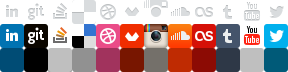
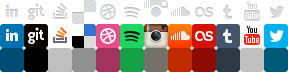
Update links

Changed region(s): [[0.4062, 0.3333, 0.5, 1.0], [0.4062, 0.0833, 0.5, 0.25]]

diff --git a/css/style.min.css b/css/style.min.css
@@ -1,1 +1,1 @@
-abbr,address,article,aside,audio,b,blockquote,body,caption,cite,code,dd,del,dfn,div,dl,dt,em,fieldset,figure,footer,form,h1,h2,h3,h4,h5,h6,header,hgroup,html,i,iframe,img,ins,kbd,label,legend,li,mark,menu,nav,object,ol,p,pre,q,samp,section,small,span,strong,sub,sup,table,tbody,td,tfoot,th,thead,time,tr,ul,var,video{margin:0;border:0;outline:0;padding:0;font-size:100%;vertical-align:baseline;background:0 0}article,aside,figure,footer,header,hgroup,nav,section{display:block}nav ul{list-style:none}blockquote,q{quotes:none}blockquote:after,blockquote:before,q:after,q:before{content:'';content:none}a{margin:0;padding:0;font-size:100%;vertical-align:baseline;background:0 0}ins{background-color:#ff9;color:#000;text-decoration:none}mark{background-color:#ff9;color:#000;font-style:italic;font-weight:700}del{text-decoration:line-through}abbr[title],dfn[title]{border-bottom:1px dotted #000;cursor:help}table{border-collapse:collapse;border-spacing:0}hr{display:block;height:1px;border:0;border-top:1px solid #ccc;margin:1em 0;padding:0}input,select{vertical-align:middle}body{font:13px sans-serif;line-height:1.22}table{font:100%}input,select,textarea{font:99% sans-serif}code,kbd,pre,samp{font-family:monospace,sans-serif}body,input,select,textarea{color:#444}h1,h2,h3,h4,h5,h6{font-weight:700;text-rendering:optimizeLegibility}html{-webkit-font-smoothing:antialiased}a:active,a:hover{outline:0}a,a:active,a:visited{color:#607890}a:hover{color:#036}ul{margin-left:30px}ol{margin-left:30px;list-style-type:decimal}small{font-size:85%}strong,th{font-weight:700}td,td img{vertical-align:top}sub{vertical-align:sub;font-size:smaller}sup{vertical-align:super;font-size:smaller}pre{padding:15px;white-space:pre;white-space:pre-wrap;white-space:pre-line;word-wrap:break-word}input[type=radio]{vertical-align:text-bottom}input[type=checkbox]{vertical-align:bottom}.ie6 input{vertical-align:text-bottom}button,input[type=button],input[type=submit],label{cursor:pointer}::-moz-selection{background:#f90;color:#fff;text-shadow:none}::selection{background:#f90;color:#fff;text-shadow:none}a:link{-webkit-tap-highlight-color:#f90}button{width:auto;overflow:visible}.ie7 img{-ms-interpolation-mode:bicubic}.ir{display:block;direction:ltr;text-indent:-999em;overflow:hidden;background-repeat:no-repeat}.hidden{display:none;visibility:hidden}.visuallyhidden{position:absolute!important;clip:rect(1px 1px 1px 1px);clip:rect(1px,1px,1px,1px)}.invisible{visibility:hidden}.clearfix:after{content:".";display:block;height:0;clear:both;visibility:hidden}* html .clearfix{height:1%}.clearfix{display:block}body,html{width:100%;height:100%}html{background:#edf1f2 url(../img/bg.png)}body{position:relative;min-width:320px;min-height:540px;text-align:center;font-family:'Yanone Kaffeesatz',arial,sans-serif;background:url(../img/shimmer-bg.png) top center no-repeat;color:#7d7f80}header{display:none}.middlr{position:absolute;width:100%;height:0;overflow:visible}.middlr.main{top:50%}.middlr.secondary{top:75%}.soon{position:absolute;top:-67px;width:100%;height:134px;font-weight:700;line-height:1.2;vertical-align:middle;color:#fff}.soon p{position:relative;top:0;width:245px;height:100px;margin:0 auto;font-size:128px;line-height:100px;text-transform:uppercase;text-shadow:#bbbebf 0 5px 0,rgba(0,0,0,.25) 0 5px 5px;-webkit-transition:all 100ms ease-in-out;transition:all 100ms ease-in-out}.soon p:hover{position:relative;top:3px;text-shadow:#bbbebf 0 2px 0,rgba(0,0,0,.25) 0 2px 2px}.soon small{top:0;margin-top:5px;display:block;font-size:24px;text-shadow:#a5a7a8 0 1px 0,#a5a7a8 0 2px 0,rgba(0,0,0,.25) 0 2px 5px}.ie7 .soon p,.ie7 .soon small,.ie8 .soon p,.ie8 .soon small{color:#7d7f80}.ie7 .soon p:hover,.ie8 .soon p:hover{top:0}.content aside{position:absolute;top:-50px;width:100%;height:100px}.content aside p{font-size:22px}.socialist{width:204px;margin:5px auto;overflow:hidden;list-style:none inside}.socialist li,.socialist li a{background-color:transparent;background-image:url(../img/socialist-bg.png);background-repeat:no-repeat}.socialist li{margin:5px;border-radius:2px;box-shadow:#bfbfbf 0 0 2px;display:block;float:left;list-style-type:none;background-color:#bfbfbf;background-position:-288px -48px;-webkit-transition:box-shadow 100ms ease-in-out;transition:box-shadow 100ms ease-in-out}.socialist li:hover{box-shadow:#bfbfbf 0 0 4px}.socialist li:active{box-shadow:#bfbfbf 0 0 1px}.socialist li a{position:relative;top:-2px;width:24px;height:24px;display:inline-block;direction:ltr;text-indent:-9999px;-webkit-transition:top 100ms ease-in-out;transition:top 100ms ease-in-out}.socialist li:hover a{top:-4px}.socialist .active a,.socialist li:active a{top:-1px}.socialist .linkedin a{background-position:0 0}.socialist .linkedin:hover a{background-position:0 -24px}.socialist .linkedin:hover{box-shadow:rgba(0,76,117,.75) 0 0 4px;background-position:0 -48px}.socialist .github a{background-position:-24px 0}.socialist .github:hover a{background-position:-24px -24px}.socialist .github:hover{box-shadow:rgba(0,0,0,.5) 0 0 4px;background-position:-24px -48px}.socialist .stackoverflow a{background-position:-48px 0}.socialist .stackoverflow:hover a{background-position:-48px -24px}.socialist .stackoverflow:hover{background-position:-48px -48px}.socialist .delicious a{background-position:-72px 0}.socialist .delicious:hover a{background-position:-72px -24px}.socialist .delicious:hover{box-shadow:rgba(145,145,145,.75) 0 0 4px;background-position:-72px -48px}.socialist .dribbble a{background-position:-96px 0}.socialist .dribbble:hover a{background-position:-96px -24px}.socialist .dribbble:hover{box-shadow:rgba(161,51,93,.75) 0 0 4px;background-position:-96px -48px}.socialist .domestika a{background-position:-120px 0}.socialist .domestika:hover a{background-position:-120px -24px}.socialist .domestika:hover{box-shadow:rgba(120,22,0,.75) 0 0 4px;background-position:-120px -48px}.socialist .instagram a{background-position:-144px 0}.socialist .instagram:hover a{background-position:-144px -24px}.socialist .instagram:hover{box-shadow:rgba(116,112,106,.75) 0 0 4px;background-position:-144px -48px}.socialist .soundcloud a{background-position:-168px 0}.socialist .soundcloud:hover a{background-position:-168px -24px}.socialist .soundcloud:hover{box-shadow:rgba(191,43,2,.75) 0 0 4px;background-position:-168px -48px}.socialist .lastfm a{background-position:-192px 0}.socialist .lastfm:hover a{background-position:-192px -24px}.socialist .lastfm:hover{box-shadow:rgba(140,11,4,.75) 0 0 4px;background-position:-192px -48px}.socialist .tumblr a{background-position:-216px 0}.socialist .tumblr:hover a{background-position:-216px -24px}.socialist .tumblr:hover{box-shadow:rgba(46,56,71,.75) 0 0 4px;background-position:-216px -48px}.socialist .youtube a{background-position:-240px 0}.socialist .youtube:hover a{background-position:-240px -24px}.socialist .youtube:hover{background-position:-240px -48px}.socialist .twitter a{background-position:-264px 0}.socialist .twitter:hover a{background-position:-264px -24px}.socialist .twitter:hover{box-shadow:rgba(0,90,120,.75) 0 0 4px;background-position:-264px -48px}@media (-webkit-min-device-pixel-ratio:2),(min-resolution:192dpi){html{background-image:url(../img/bg@2x.png);background-size:100px}body{background-image:url(../img/shimmer-bg@2x.png);background-size:640px 320px}.socialist li,.socialist li a{background-image:url(../img/socialist-bg@2x.png);background-size:288px 72px}}@media screen and (max-device-width:480px){html{-webkit-text-size-adjust:none;-ms-text-size-adjust:none}}@media screen and (max-device-width:480px) and (orientation:portrait){body{min-height:416px}.middlr.main{top:33%}.middlr.secondary{top:75%}}@media screen and (max-device-width:480px) and (orientation:landscape){body{min-height:268px}.middlr.main{top:25%}.middlr.secondary{top:66%}.soon{-webkit-transform:scale(.5);transform:scale(.5)}}
+a,hr{padding:0}.ir,article,aside,figure,footer,header,hgroup,hr,nav,section{display:block}.clearfix:after,.hidden,.invisible{visibility:hidden}abbr,address,article,aside,audio,b,blockquote,body,caption,cite,code,dd,del,dfn,div,dl,dt,em,fieldset,figure,footer,form,h1,h2,h3,h4,h5,h6,header,hgroup,html,i,iframe,img,ins,kbd,label,legend,li,mark,menu,nav,object,ol,p,pre,q,samp,section,small,span,strong,sub,sup,table,tbody,td,tfoot,th,thead,time,tr,ul,var,video{margin:0;border:0;outline:0;padding:0;font-size:100%;vertical-align:baseline;background:0 0}ins,mark{background-color:#ff9;color:#000}sub,sup{font-size:smaller}ol,ul{margin-left:30px}nav ul{list-style:none}blockquote,q{quotes:none}blockquote:after,blockquote:before,q:after,q:before{content:'';content:none}a{margin:0;font-size:100%;vertical-align:baseline;background:0 0}ins{text-decoration:none}mark{font-style:italic;font-weight:700}del{text-decoration:line-through}abbr[title],dfn[title]{border-bottom:1px dotted #000;cursor:help}hr{height:1px;border:0;border-top:1px solid #ccc;margin:1em 0}input,select{vertical-align:middle}body{font:13px sans-serif;line-height:1.22}table{border-collapse:collapse;border-spacing:0;font:100%}input,select,textarea{font:99% sans-serif}.soon,strong,th{font-weight:700}code,kbd,pre,samp{font-family:monospace,sans-serif}body,input,select,textarea{color:#444}h1,h2,h3,h4,h5,h6{font-weight:700;text-rendering:optimizeLegibility}a:active,a:hover{outline:0}a,a:active,a:visited{color:#607890}a:hover{color:#036}ol{list-style-type:decimal}small{font-size:85%}td,td img{vertical-align:top}sub{vertical-align:sub}sup{vertical-align:super}pre{padding:15px;white-space:pre;white-space:pre-wrap;white-space:pre-line;word-wrap:break-word}.ie6 input,input[type=radio]{vertical-align:text-bottom}input[type=checkbox]{vertical-align:bottom}button,input[type=button],input[type=submit],label{cursor:pointer}::-moz-selection{background:#f90;color:#fff;text-shadow:none}::selection{background:#f90;color:#fff;text-shadow:none}a:link{-webkit-tap-highlight-color:#f90}button{width:auto;overflow:visible}.ie7 img{-ms-interpolation-mode:bicubic}.ir{direction:ltr;text-indent:-999em;overflow:hidden;background-repeat:no-repeat}.hidden{display:none}.visuallyhidden{position:absolute!important;clip:rect(1px 1px 1px 1px);clip:rect(1px,1px,1px,1px)}.clearfix:after{content:".";display:block;height:0;clear:both}* html .clearfix{height:1%}.clearfix{display:block}body,html{width:100%;height:100%}html{-webkit-font-smoothing:antialiased;background:url(../img/bg.png) #edf1f2}body{position:relative;min-width:320px;min-height:540px;text-align:center;font-family:'Yanone Kaffeesatz',arial,sans-serif;background:url(../img/shimmer-bg.png) top center no-repeat;color:#7d7f80}.middlr,.soon{position:absolute;width:100%}header{display:none}.middlr{height:0;overflow:visible}.middlr.main{top:50%}.middlr.secondary{top:75%}.soon{top:-67px;height:134px;line-height:1.2;vertical-align:middle;color:#fff}.soon p{position:relative;top:0;width:245px;height:100px;margin:0 auto;font-size:128px;line-height:100px;text-transform:uppercase;text-shadow:#bbbebf 0 5px 0,rgba(0,0,0,.25) 0 5px 5px;-webkit-transition:all 100ms ease-in-out;transition:all 100ms ease-in-out}.soon p:hover{position:relative;top:3px;text-shadow:#bbbebf 0 2px 0,rgba(0,0,0,.25) 0 2px 2px}.soon small{top:0;margin-top:5px;display:block;font-size:24px;text-shadow:#a5a7a8 0 1px 0,#a5a7a8 0 2px 0,rgba(0,0,0,.25) 0 2px 5px}.ie7 .soon p,.ie7 .soon small,.ie8 .soon p,.ie8 .soon small{color:#7d7f80}.ie7 .soon p:hover,.ie8 .soon p:hover{top:0}.content aside{position:absolute;top:-50px;width:100%;height:100px}.content aside p{font-size:22px}.socialist{width:204px;margin:5px auto;overflow:hidden;list-style:none inside}.socialist li,.socialist li a{background-color:transparent;background-image:url(../img/socialist-bg.png);background-repeat:no-repeat}.socialist li{margin:5px;border-radius:2px;box-shadow:#bfbfbf 0 0 2px;display:block;float:left;list-style-type:none;background-color:#bfbfbf;background-position:-288px -48px;-webkit-transition:box-shadow 100ms ease-in-out;transition:box-shadow 100ms ease-in-out}.socialist li:hover{box-shadow:#bfbfbf 0 0 4px}.socialist li:active{box-shadow:#bfbfbf 0 0 1px}.socialist li a{position:relative;top:-2px;width:24px;height:24px;display:inline-block;direction:ltr;text-indent:-9999px;-webkit-transition:top 100ms ease-in-out;transition:top 100ms ease-in-out}.socialist li:hover a{top:-4px}.socialist .active a,.socialist li:active a{top:-1px}.socialist .linkedin a{background-position:0 0}.socialist .linkedin:hover a{background-position:0 -24px}.socialist .linkedin:hover{box-shadow:rgba(0,76,117,.75) 0 0 4px;background-position:0 -48px}.socialist .github a{background-position:-24px 0}.socialist .github:hover a{background-position:-24px -24px}.socialist .github:hover{box-shadow:rgba(0,0,0,.5) 0 0 4px;background-position:-24px -48px}.socialist .stackoverflow a{background-position:-48px 0}.socialist .stackoverflow:hover a{background-position:-48px -24px}.socialist .stackoverflow:hover{background-position:-48px -48px}.socialist .delicious a{background-position:-72px 0}.socialist .delicious:hover a{background-position:-72px -24px}.socialist .delicious:hover{box-shadow:rgba(145,145,145,.75) 0 0 4px;background-position:-72px -48px}.socialist .dribbble a{background-position:-96px 0}.socialist .dribbble:hover a{background-position:-96px -24px}.socialist .dribbble:hover{box-shadow:rgba(161,51,93,.75) 0 0 4px;background-position:-96px -48px}.socialist .spotify a{background-position:-120px 0}.socialist .spotify:hover a{background-position:-120px -24px}.socialist .spotify:hover{box-shadow:rgba(22,161,71,.75) 0 0 4px;background-position:-120px -48px}.socialist .instagram a{background-position:-144px 0}.socialist .instagram:hover a{background-position:-144px -24px}.socialist .instagram:hover{box-shadow:rgba(116,112,106,.75) 0 0 4px;background-position:-144px -48px}.socialist .soundcloud a{background-position:-168px 0}.socialist .soundcloud:hover a{background-position:-168px -24px}.socialist .soundcloud:hover{box-shadow:rgba(191,43,2,.75) 0 0 4px;background-position:-168px -48px}.socialist .lastfm a{background-position:-192px 0}.socialist .lastfm:hover a{background-position:-192px -24px}.socialist .lastfm:hover{box-shadow:rgba(140,11,4,.75) 0 0 4px;background-position:-192px -48px}.socialist .tumblr a{background-position:-216px 0}.socialist .tumblr:hover a{background-position:-216px -24px}.socialist .tumblr:hover{box-shadow:rgba(46,56,71,.75) 0 0 4px;background-position:-216px -48px}.socialist .youtube a{background-position:-240px 0}.socialist .youtube:hover a{background-position:-240px -24px}.socialist .youtube:hover{background-position:-240px -48px}.socialist .twitter a{background-position:-264px 0}.socialist .twitter:hover a{background-position:-264px -24px}.socialist .twitter:hover{box-shadow:rgba(0,90,120,.75) 0 0 4px;background-position:-264px -48px}@media (-webkit-min-device-pixel-ratio:2),(min-resolution:192dpi){html{background-image:url(../img/bg@2x.png);background-size:100px}body{background-image:url(../img/shimmer-bg@2x.png);background-size:640px 320px}.socialist li,.socialist li a{background-image:url(../img/socialist-bg@2x.png);background-size:288px 72px}}@media screen and (max-device-width:480px){html{-webkit-text-size-adjust:none;-ms-text-size-adjust:none}}@media screen and (max-device-width:480px) and (orientation:portrait){body{min-height:416px}.middlr.main{top:33%}.middlr.secondary{top:75%}}@media screen and (max-device-width:480px) and (orientation:landscape){body{min-height:268px}.middlr.main{top:25%}.middlr.secondary{top:66%}.soon{-webkit-transform:scale(.5);transform:scale(.5)}}

diff --git a/index.html b/index.html
@@ -62,7 +62,7 @@
             <li class="stackoverflow"><a href="http://stackoverflow.com/users/252705/nkm" title="View my answers at Stack Overflow">Stack Overflow</a></li>
             <li class="delicious"><a href="http://www.delicious.com/nkm82" title="Become a fan on delicious">delicious</a></li>
             <li class="dribbble"><a href="http://dribbble.com/javi" title="Follow me on Dribbble">Dribbble</a></li>
-            <li class="domestika"><a href="http://www.domestika.org/javi-2" title="Follow me on Domestika">Domestika</a></li>
+            <li class="spotify"><a href="https://play.spotify.com/user/nkm82" title="Follow me on Spotify">Spotify</a></li>
             <li class="instagram"><a href="http://instagram.com/nkm" title="Follow me on Instagram">Instagram</a></li>
             <li class="soundcloud"><a href="http://soundcloud.com/nkm" title="Follow me on Soundcloud">Soundcloud</a></li>
             <li class="lastfm"><a href="http://www.last.fm/user/nkm82" title="Be my friend on Last.fm">Last.fm</a></li>

diff --git a/css/style.css b/css/style.css
@@ -235,10 +235,10 @@ header { display:none; }
   background-position:-96px -48px;
 }
 
-.socialist .domestika a            { background-position:-120px 0; }
-.socialist .domestika:hover a      { background-position:-120px -24px; }
-.socialist .domestika:hover {
-  box-shadow:rgba(120,22,0,.75) 0 0 4px;
+.socialist .spotify a            { background-position:-120px 0; }
+.socialist .spotify:hover a      { background-position:-120px -24px; }
+.socialist .spotify:hover {
+  box-shadow:rgba(22,161,71,.75) 0 0 4px;
   background-position:-120px -48px;
 }
 
